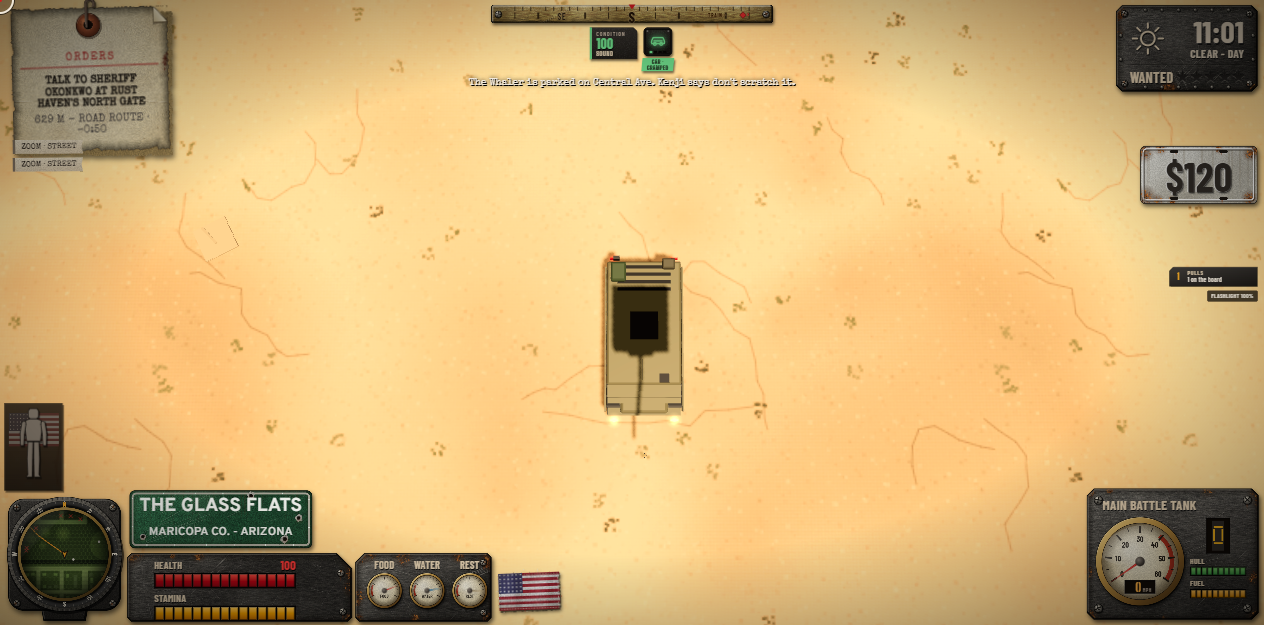
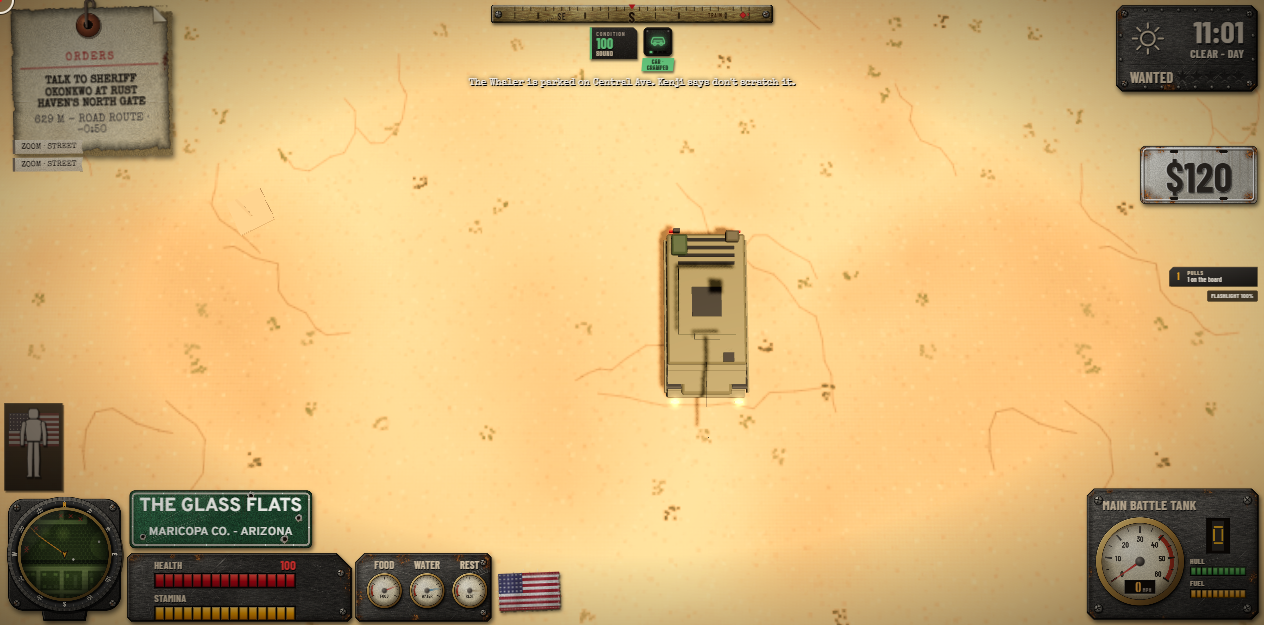
fix(web-veh-tanks): turret on the deck, empty hull gun, shell from the barrel tip, tracks pivot and hold, turret slews, old tank out past Cottonwood

diff --git a/web/src/data/tanks.js b/web/src/data/tanks.js
@@ -17,10 +17,10 @@ export const TANK_ROWS = {
 // The guns: a shell flies like a heavy rocket and bursts; `turret` [w, h, d] and `barrel` (m) are what garage.js draws.
 export const TANK_GUNS = {
   cannon75: { name: '75 MM GUN', kind: 'rocket', size: 3, kg: 1100, price: 4200, labour: 4, faces: ['top'], type: 'blast', rare: 'prewar',
-    dmg: 260, blast: 4.5, speed: 110, rate: 3.2, spread: 0.008, range: 190, mag: 12, ammo: 'shell_75', perItem: 1, turret: [1.9, 0.75, 2.2], barrel: 2.6, bore: 0.17,
+    dmg: 260, blast: 4.5, speed: 110, rate: 3.2, spread: 0.008, range: 190, mag: 12, ammo: 'shell_75', perItem: 1, turret: [1.9, 0.75, 2.2], barrel: 2.6, bore: 0.17, slew: 0.9,
     desc: 'A short gun in a riveted turret, older than anyone who could tell you about it. Every round shakes the dust out of the hull.' },
   cannon120: { name: '120 MM GUN', kind: 'rocket', size: 3, kg: 1600, price: 9000, labour: 6, faces: ['top'], type: 'blast', rare: 'prewar',
-    dmg: 420, blast: 6, speed: 160, rate: 4.0, spread: 0.005, range: 240, mag: 16, ammo: 'shell_120', perItem: 1, turret: [2.5, 0.7, 2.9], barrel: 4.4, bore: 0.15,
+    dmg: 420, blast: 6, speed: 160, rate: 4.0, spread: 0.005, range: 240, mag: 16, ammo: 'shell_120', perItem: 1, turret: [2.5, 0.7, 2.9], barrel: 4.4, bore: 0.15, slew: 1.6, // slew: rad/s the turret turns
     desc: 'A long smoothbore in a flat turret. It does not miss so much as arrive.' },
 };
 export const TANK_AMMO = {
@@ -31,16 +31,16 @@ export const TANK_AMMO = {
 // The workshop (data/workshop.js CHASSIS shape; `at` = the turret's spot in the body frame).
 export const TANK_CHASSIS = {
   tank_old: { maxKg: 6000, spaces: 22, faces: { front: 80, rear: 50, left: 64, right: 64, top: 40, under: 30 },
-    mounts: { front: { size: 1, arc: 0.3 }, top: { size: 3, arc: Math.PI, at: [0, 2.0, -0.25] } } },
+    mounts: { front: { size: 1, arc: 0.3 }, top: { size: 3, arc: Math.PI, at: [0, 1.57, -0.25] } } }, // at: on the deck (systems/tanks.js yTop 1.55)
   tank_new: { maxKg: 9000, spaces: 28, faces: { front: 110, rear: 60, left: 80, right: 80, top: 50, under: 40 },
-    mounts: { front: { size: 1, arc: 0.3 }, top: { size: 3, arc: Math.PI, at: [0, 2.02, -0.55] } } },
+    mounts: { front: { size: 1, arc: 0.3 }, top: { size: 3, arc: Math.PI, at: [0, 1.47, -0.55] } } }, // at: on the deck (yTop 1.45)
 };
 
 // Where the world has them. near: the spot asked for; the system puts it on the nearest clear ground within `r` m.
 // kit: the gun it carries and how many rounds are in it (the old one's is empty), its fuel (the old one's is dry).
 export const TANKS_PLACED = [
-  { id: 'memorial_tank', type: 'tank_old', near: { x: 46, z: -46 }, r: 40, h: 0.6, paint: '#4e5a3a', kit: { top: 'cannon75', rounds: 0, front: 'mg1' }, fuel: 0, plinth: true },
-  { id: 'outpost_tank', type: 'tank_new', near: { x: -250, z: -350 }, r: 60, h: -2.2, paint: '#6a6448', kit: { top: 'cannon120', rounds: 4, front: 'mg' }, fuel: 0.35 },
+  { id: 'memorial_tank', type: 'tank_old', near: { x: -2440, z: -70 }, r: 50, h: 0.6, paint: '#4e5a3a', kit: { top: 'cannon75', rounds: 0, front: 'mg1', frontRounds: 0 }, fuel: 0 }, // out on the old highway past Cottonwood, a relic: nothing in its guns
+  { id: 'outpost_tank', type: 'tank_new', near: { x: -250, z: -350 }, r: 60, h: -2.2, paint: '#6a6448', kit: { top: 'cannon120', rounds: 4, front: 'mg', frontRounds: 60 }, fuel: 0.35 },
 ];
 
 export function validateTanks(MW = {}, CHASSIS_ = {}) {

diff --git a/web/src/agent/veh-tanks-api.js b/web/src/agent/veh-tanks-api.js
@@ -37,7 +37,7 @@ export async function vehTanksChecks(api, check, C) {
       await C('teleport', { x: P.near.x - 20, z: P.near.z - 20 }); for (let f = 0; f < 10; f++) await api._step(1);
       const v = g.vehicles.find((q) => q.tankRow === P.id), n = g.vehicles.filter((q) => q.tankRow === P.id).length;
       if (!v) return JSON.stringify({ placed: g.tanks.placed.has(P.id), n });
-      const r0 = v.mounts?.top?.ammo, f0 = v.fuel;
+      const r0 = v.mounts?.top?.ammo, f0 = v.fuel, fr0 = v.mounts?.front?.ammo ?? 0; // the hull gun is empty too
       g.enterVehicle(v); await api._step(3);
       const x0 = v.x, z0 = v.z; I.down.add('KeyW'); await api._step(120); I.down.delete('KeyW');
       const moved = Math.hypot(v.x - x0, v.z - z0);
@@ -46,7 +46,7 @@ export async function vehTanksChecks(api, check, C) {
       await api._step(30); I.mouse.physRight = false; I.mouse.right = false;
       const fired = (g.events ?? []).some((e) => e.seq > ev0 && /rocketLaunch|mountFire|launch/i.test(e.type) && e.vehicle === v.id);
       g.exitVehicle(true);
-      return n === 1 && v.mounts?.top?.kind === 'cannon75' && r0 === 0 && f0 === 0 && moved < 0.3 && !fired ? true : JSON.stringify({ n, gun: v.mounts?.top?.kind, r0, f0, moved: r1(moved), fired });
+      return n === 1 && v.mounts?.top?.kind === 'cannon75' && r0 === 0 && fr0 === 0 && f0 === 0 && moved < 0.3 && !fired ? true : JSON.stringify({ n, gun: v.mounts?.top?.kind, r0, fr0, f0, moved: r1(moved), fired });
     } finally { off(); }
   });
 
@@ -61,12 +61,15 @@ export async function vehTanksChecks(api, check, C) {
       const moved = Math.hypot(v.x - x0, v.z - z0);
       const hp0 = car.hp, a0 = v.mounts.top.ammo;
       g.aimOverride = { x: car.x, z: car.z }; I.mouse.physRight = true; I.mouse.right = true;
-      for (let f = 0; f < 90 && v.mounts.top.ammo === a0; f++) await api._step(1);
+      const ws = g.workshop, launch0 = ws.launch; let mz0 = null; ws.launch = function (vv, mz, ...rest) { if (vv === v && !mz0) mz0 = { x: mz.x, y: mz.y, z: mz.z, vx: vv.x, vz: vv.z }; return launch0.call(this, vv, mz, ...rest); };
+      let lag = 0; try { for (let f = 0; f < 120 && v.mounts.top.ammo === a0; f++) { await api._step(1); lag = f; } } finally { ws.launch = launch0; }
       I.mouse.physRight = false; I.mouse.right = false;
       for (let f = 0; f < 90; f++) await api._step(1);
       const want = Math.atan2(car.x - v.x, car.z - v.z), yaw = v.mounts.top.yaw ?? 0, off_ = Math.abs(Math.atan2(Math.sin(yaw - want), Math.cos(yaw - want)));
       const spent = a0 - v.mounts.top.ammo, hurt = hp0 - car.hp;
-      return moved > 5 && spent === 1 && off_ < 0.35 && (hurt > 150 || car.dead) ? true : JSON.stringify({ moved: r1(moved), spent, aimOff: r1(off_), hurt: Math.round(hurt), dead: car.dead });
+      const at = g.garage.chassis(v).mounts.top.at, W = MOUNT_WEAPONS.cannon120, reach = W.turret[2] / 2 + 0.2 + W.barrel; // the barrel tip, from the turret's spot on the deck
+      const tip = mz0 ? Math.hypot(mz0.x - mz0.vx, mz0.z - mz0.vz) : 0, tipOk = mz0 && tip > reach - 1.2 && tip < reach + 1.5 && mz0.y > at[1] && mz0.y < at[1] + W.turret[1];
+      return moved > 5 && spent === 1 && off_ < 0.35 && lag > 15 && tipOk && (hurt > 150 || car.dead) ? true : JSON.stringify({ moved: r1(moved), spent, aimOff: r1(off_), lag, tip: r1(tip), reach: r1(reach), y: mz0 && r1(mz0.y), hurt: Math.round(hurt), dead: car.dead });
     } finally { off(); }
   });
 }

diff --git a/web/src/systems/workshop.js b/web/src/systems/workshop.js
@@ -292,8 +292,13 @@ export class Workshop {
       if (face !== 'top' && Math.abs(off) > arc) { if (group !== 2) continue; off = 0; } // a tail gun on B fires straight back
       out.inArc++;
       // Bolted to the frame: a few degrees of give toward the aim (the old hood gun's 0.07), the turret slews to it.
-      const aim = face === 'top' ? ang : bearing + Math.max(-0.07, Math.min(0.07, off));
-      if (face === 'top') m.yaw = ang;
+      let aim = face === 'top' ? ang : bearing + Math.max(-0.07, Math.min(0.07, off));
+      if (face === 'top' && W.slew) { // a heavy turret turns at its rate (data/tanks.js slew): the gun fires once it is laid
+        const t = this.g.time, dt = Math.min(0.1, Math.max(0, t - (m.slewAt ?? t))); m.slewAt = t;
+        const y0 = m.yaw ?? v.h, d = wrap(ang - y0), stepA = W.slew * dt;
+        m.yaw = Math.abs(d) <= stepA ? ang : y0 + Math.sign(d) * stepA; aim = m.yaw;
+        if (Math.abs(wrap(ang - m.yaw)) > 0.05) { m.aimAng = ang; continue; } // still swinging round (counted in arc above)
+      } else if (face === 'top') m.yaw = ang;
       m.aimAng = ang;
       const r = this.shoot(v, face, m, W, aim, shooter);
       if (r === 'charging') out.charging = true; else if (r) out.fired++;
@@ -307,8 +312,9 @@ export class Workshop {
     const [lx, lz] = face === 'front' ? [(m.alt = !m.alt) ? 0.32 : -0.32, L / 2 + 0.55] : face === 'rear' ? [0, -L / 2 - 0.6] : face === 'left' ? [W / 2 + 0.5, 0.2] : face === 'right' ? [-W / 2 - 0.5, 0.2] : [0, 0];
     const at = this.g.garage.chassis(v)?.mounts?.[face]?.at; // a body's own spot for the gun (a boat's pintle): fire from it
     let x = at ? v.x + at[0] * c + at[2] * s : v.x + lx * c + lz * s, z = at ? v.z - at[0] * s + at[2] * c : v.z - lx * s + lz * c;
-    if (face === 'top') { const r = at ? 1.4 : v.wid * 0.5 + 0.9; x += Math.sin(ang) * r; z += Math.cos(ang) * r; }
-    const y = at ? at[1] + 0.05 : face === 'top' ? (v.tall ?? 1.8) + 0.2 : 1.15;
+    const Wm = MOUNT_WEAPONS[m.kind]; // a tank's gun leaves from the muzzle: half the turret, the mantlet, the barrel
+    if (face === 'top') { const r = at ? (Wm?.turret ? Wm.turret[2] / 2 + 0.2 + (Wm.barrel ?? 0) : 1.4) : v.wid * 0.5 + 0.9; x += Math.sin(ang) * r; z += Math.cos(ang) * r; }
+    const y = at ? at[1] + (Wm?.turret ? Wm.turret[1] * 0.45 : 0.05) : face === 'top' ? (v.tall ?? 1.8) + 0.2 : 1.15;
     const o = (this._mz ??= { x: 0, z: 0, y: 0 });
     o.x = x; o.z = z; o.y = y;
     return o;

diff --git a/web/src/systems/vehicles.js b/web/src/systems/vehicles.js
@@ -315,6 +315,7 @@ export class Vehicles {
       fwd *= Math.exp(-dt * depth * 2.2); side *= Math.exp(-dt * depth * 1.4); fxm.power *= 1 - depth * 0.6;
       if (this.speed(v) > 3 && Math.random() < dt * (10 + this.speed(v))) this.g.fx.spawn(2, v.x + (Math.random() - 0.5) * v.wid, v.y + 0.3, v.z + (Math.random() - 0.5) * v.len, (Math.random() - 0.5) * 3.5, 2.6, (Math.random() - 0.5) * 3.5, 0.6, 0.35, '#d6dccc', 3);
     }
+    if (v.tracked && !(v.throttle && fxm.power > 0.05)) { const k = Math.abs(fwd) < 2 ? 14 : 3; fwd *= Math.exp(-dt * k); side *= Math.exp(-dt * k); } // tracks never freewheel: off the power a tank grinds to a stop and holds (data/tanks.js)
     if (!v.dead && v.driver && !v.fallen) {
       // Backing up: the row's own reverse speed (reverseOf), pulling at DRIVING.reverseAccel of its accel and tapering
       // near the top as the forward gears do. It was a flat 0.6 x accel to 35% of top speed for every rig.
@@ -331,7 +332,7 @@ export class Vehicles {
         const back = Math.abs(v.steer) < Math.abs(v.steerIn ?? 0) || v.steer * (v.steerIn ?? 0) < 0, r = (back ? DRIVING.steerReturn : DRIVING.steerRate) * dt;
         v.steerIn = st = clamp(v.steer, (v.steerIn ?? 0) - r, (v.steerIn ?? 0) + r);
       }
-      const steerAmt = (st + fxm.pull * clamp(sp / 10, 0, 1)) * v.turn * (v.driver === this.g.player ? this.g.deep?.fx.handling ?? 1 : 1) * clamp(sp / 7, 0, 1) * (1 - clamp(sp / v.maxSpeed, 0, 1) * 0.35) * (v.wheelie > 0.15 ? 0.35 : 1);
+      const steerAmt = (st + fxm.pull * clamp(sp / 10, 0, 1)) * v.turn * (v.driver === this.g.player ? this.g.deep?.fx.handling ?? 1 : 1) * (v.tracked ? Math.max(0.6, clamp(sp / 7, 0, 1)) : clamp(sp / 7, 0, 1)) * (1 - clamp(sp / v.maxSpeed, 0, 1) * 0.35) * (v.wheelie > 0.15 ? 0.35 : 1);
       // A plain lerp: av is a rate, not an angle. angleLerp wrapped the gap into ±π, so a car kicked past π rad/s (a
       // crash, a shove) settled on the target + 2πk instead and spun at ~28 rad/s for good, in place, at 16 m/s,
       // flattening anyone near it (a traffic LAWMAN spinning by the sheriff's corner ran bounty-run's player down).

diff --git a/web/src/systems/tanks.js b/web/src/systems/tanks.js
@@ -27,13 +27,14 @@ export class Tanks {
   }
   place(P) {
     const g = this.g, row = TANK_ROWS[P.type], at = this.clearSpot(P.near, P.r, row);
+    if (!at) { g.emit?.('tankNotPlaced', { id: P.id, why: 'no clear ground' }); return null; } // tried again next time you come near
     this.placed.add(P.id);
-    if (!at) { g.emit?.('tankNotPlaced', { id: P.id, why: 'no clear ground' }); return null; }
     const v = g.vehiclesSys.spawn(P.type, at.x, at.z, P.h, P.paint);
     if (!v) return null;
     v.tankRow = P.id;
     for (const face of ['top', 'front']) { const kind = P.kit[face]; if (kind && !g.garage.canMount(v, face, kind)) g.garage.setMount(v, face, kind); }
     if (v.mounts?.top) v.mounts.top.ammo = P.kit.rounds; // what is in the gun (the old one's is empty: find shells)
+    if (v.mounts?.front) v.mounts.front.ammo = P.kit.frontRounds ?? 0; // and in the hull gun (nothing comes free)
     v.fuel = (v.fuelCap ?? 0) * P.fuel; // the old one's tank is dry
     this.counts.placed++;
     g.emit?.('tankPlaced', { id: P.id, vehicle: v.id, type: P.type, x: Math.round(at.x), z: Math.round(at.z) });

diff --git a/web/src/systems/vehicledamage.js b/web/src/systems/vehicledamage.js
@@ -80,7 +80,7 @@ export class VehicleDamage {
 
   popTyre(v, t) {
     if (!v.dmg || v.dmg.tyres[t] <= 0) return;
-    if (v.utility?.solidtyres) return; // puncture-proof: no air to lose (data/workshop.js UTILITY)
+    if (v.utility?.solidtyres || v.tracked) return; // puncture-proof: no air to lose (data/workshop.js UTILITY); a tank's tracks have none either (data/tanks.js)
     v.dmg.tyres[t] = 0;
     v.dmg.dirty = true;
     this.g.audio.tyrePop?.(this.g.pan(v.x));
